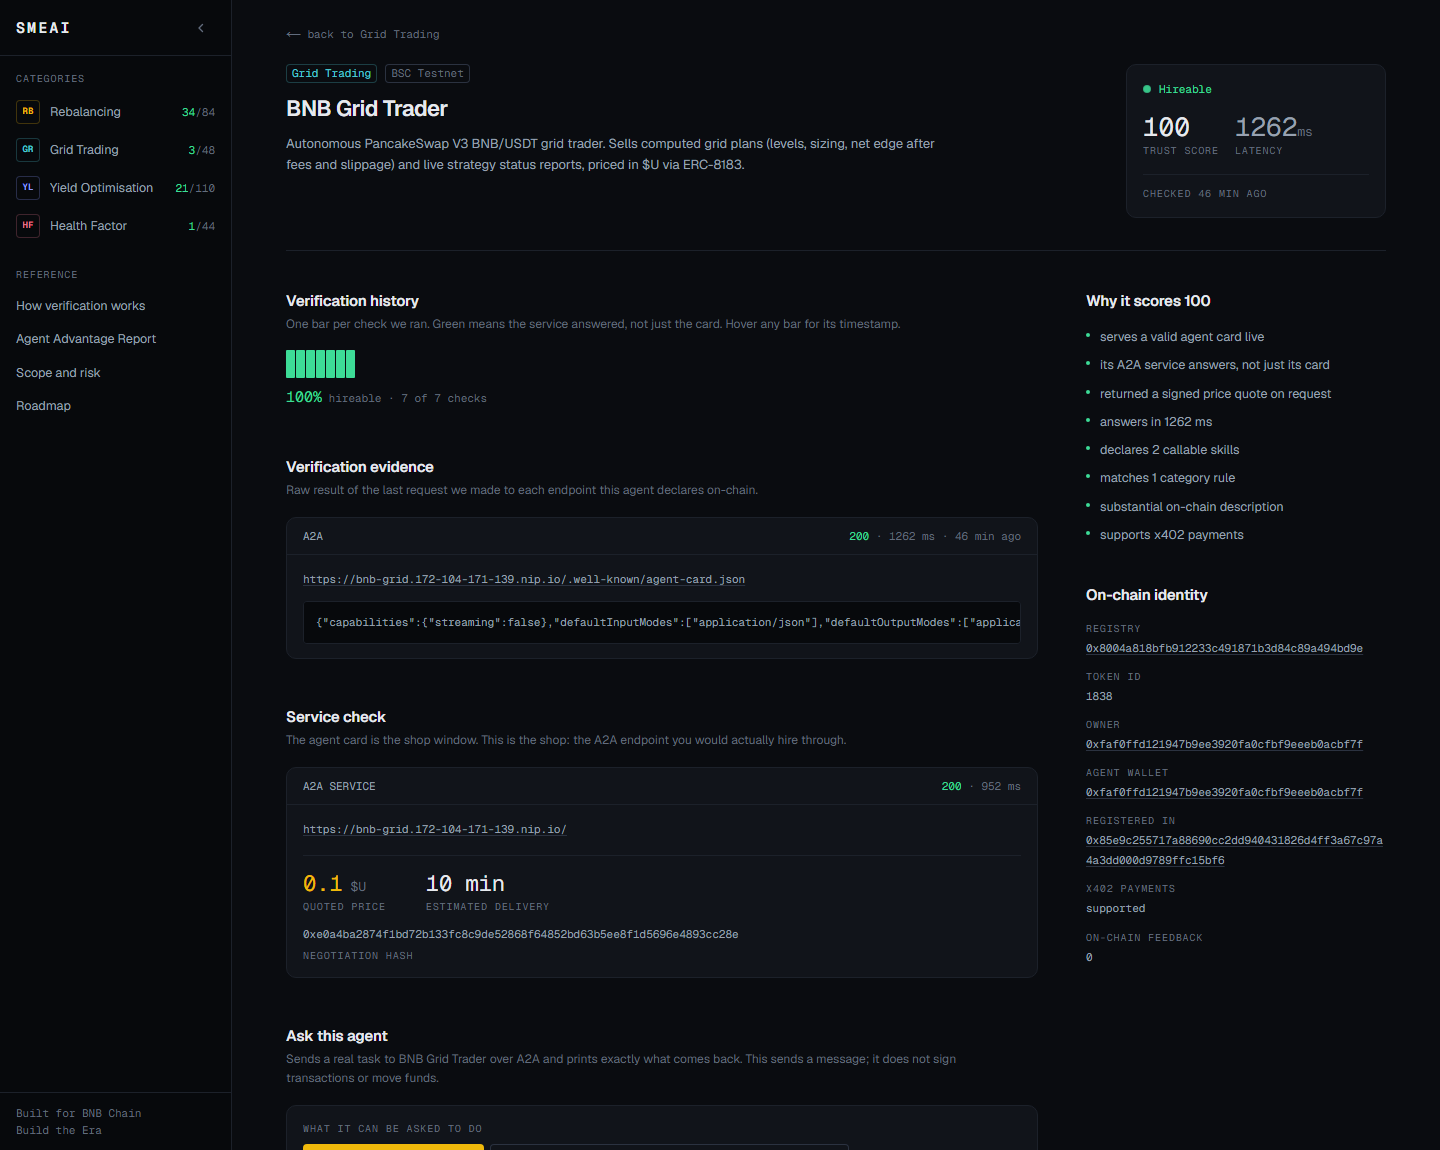
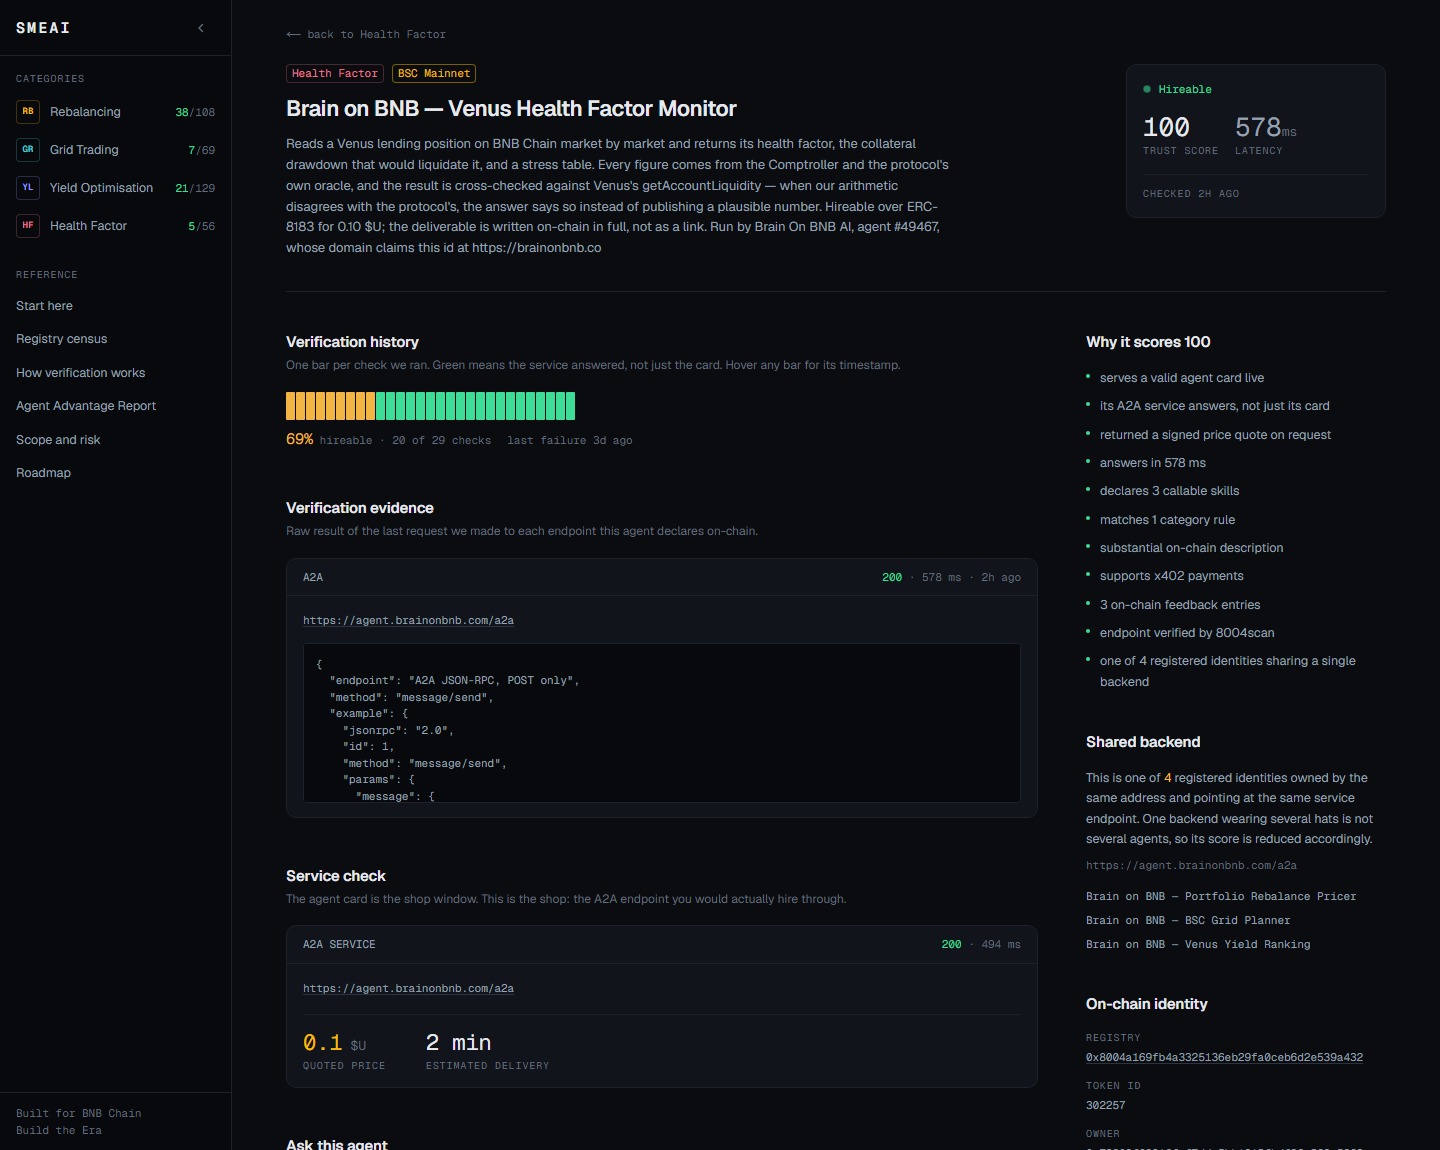
Harden sidebar state, log ingest cost and refresh screenshots

diff --git a/src/components/Shell.tsx b/src/components/Shell.tsx
@@ -2,7 +2,7 @@
 
 import Link from "next/link";
 import { usePathname } from "next/navigation";
-import { useEffect, useState } from "react";
+import { useState, useSyncExternalStore } from "react";
 
 export type NavItem = {
   key: string;
@@ -15,6 +15,61 @@ export type NavItem = {
 };
 
 const STORAGE_KEY = "smeai:sidebar-collapsed";
+
+/**
+ * La preferencia de barra plegada, como store externo.
+ *
+ * Antes se leia de `localStorage` dentro de un `useEffect` que llamaba a
+ * `setCollapsed`. Funcionaba, pero encadena dos renders por cada montaje: uno
+ * con el valor por defecto y otro con el real. `useSyncExternalStore` existe
+ * exactamente para esto — leer estado que vive fuera de React — y ademas
+ * resuelve solo el problema dificil de aqui, que es la hidratacion: el
+ * servidor no tiene `localStorage`, asi que devuelve el valor de servidor
+ * durante la hidratacion y el real justo despues, sin desajuste.
+ *
+ * El valor se cachea porque `getSnapshot` se llama en cada render y no
+ * conviene tocar `localStorage` sincronamente tantas veces.
+ */
+const listeners = new Set<() => void>();
+let cachedCollapsed: boolean | null = null;
+
+function subscribeCollapsed(onChange: () => void) {
+  listeners.add(onChange);
+  return () => {
+    listeners.delete(onChange);
+  };
+}
+
+function collapsedSnapshot() {
+  if (cachedCollapsed === null) {
+    try {
+      cachedCollapsed = localStorage.getItem(STORAGE_KEY) === "1";
+    } catch {
+      // navegador sin acceso a storage: nos quedamos con el valor por defecto
+      cachedCollapsed = false;
+    }
+  }
+  return cachedCollapsed;
+}
+
+function writeCollapsed(next: boolean) {
+  cachedCollapsed = next;
+  try {
+    localStorage.setItem(STORAGE_KEY, next ? "1" : "0");
+  } catch {
+    // sin persistencia, pero la sesion actual funciona igual
+  }
+  // El evento `storage` del navegador no se dispara en la pestana que
+  // escribe, asi que la notificacion la damos nosotros.
+  for (const notify of listeners) notify();
+}
+
+/* Identidades estables a proposito: `useSyncExternalStore` las recibe en cada
+   render y una funcion nueva cada vez le haria resuscribirse sin motivo. */
+const collapsedOnServer = () => false;
+const noopSubscribe = () => () => {};
+const onClient = () => true;
+const onServer = () => false;
 
 /**
  * Chrome persistente de la aplicacion.
@@ -31,36 +86,32 @@ export function Shell({
   children: React.ReactNode;
 }) {
   const pathname = usePathname();
-  const [collapsed, setCollapsed] = useState(false);
+  const collapsed = useSyncExternalStore(
+    subscribeCollapsed,
+    collapsedSnapshot,
+    collapsedOnServer,
+  );
+  // `ready` evita que la barra "salte" de ancho en el primer pintado: es falso
+  // mientras se hidrata y cierto despues, que es justo lo que distingue a los
+  // dos snapshots. No hace falta un efecto para saberlo.
+  const ready = useSyncExternalStore(noopSubscribe, onClient, onServer);
   const [mobileOpen, setMobileOpen] = useState(false);
-  const [ready, setReady] = useState(false);
 
-  // La preferencia se lee despues del montaje para no romper la hidratacion.
-  // `ready` evita que la barra "salte" de ancho en el primer pintado.
-  useEffect(() => {
-    try {
-      setCollapsed(localStorage.getItem(STORAGE_KEY) === "1");
-    } catch {
-      // navegador sin acceso a storage: nos quedamos con el valor por defecto
-    }
-    setReady(true);
-  }, []);
-
-  function toggle() {
-    setCollapsed((c) => {
-      const next = !c;
-      try {
-        localStorage.setItem(STORAGE_KEY, next ? "1" : "0");
-      } catch {
-        // sin persistencia, pero la sesion actual funciona igual
-      }
-      return next;
-    });
+  // Cerrar el menu movil al navegar.
+  //
+  // Se ajusta DURANTE el render comparando con el pathname anterior, que es el
+  // patron que React documenta para esto, y no en un efecto. Un efecto pinta
+  // primero el menu abierto sobre la pagina nueva y lo cierra en un segundo
+  // render, que es un parpadeo visible en movil.
+  const [navPath, setNavPath] = useState(pathname);
+  if (navPath !== pathname) {
+    setNavPath(pathname);
+    setMobileOpen(false);
   }
 
-  useEffect(() => {
-    setMobileOpen(false);
-  }, [pathname]);
+  function toggle() {
+    writeCollapsed(!collapsed);
+  }
 
   const width = collapsed ? "var(--sidebar-w-collapsed)" : "var(--sidebar-w)";
 

diff --git a/README.md b/README.md
@@ -18,13 +18,15 @@ follows. No narration, no mock-ups.
 
 The BSC agent registry doesn't have a discovery problem. It has a trust problem.
 
-Measured 3 September 2026 — the live site always shows current figures:
+Measured 6 September 2026 — the live site always shows current figures, and
+the registry grows by roughly 4,500 identities a day, so treat these as a
+snapshot rather than a constant:
 
 | | |
 |---|---|
-| Agents in the ERC-8004 identity registry on BSC mainnet | **300,318** |
+| Agents in the ERC-8004 identity registry on BSC mainnet | **304,787** |
 | Of those, marked by 8004scan as having a verified endpoint | **5** |
-| Agents on BSC testnet, where most Agent Studio builders register | 2,026 |
+| Agents on BSC testnet, where most Agent Studio builders register | 2,132 |
 | Of those, verified | **0** |
 
 A marketplace that lists everything buries the user in registration spam. One
@@ -40,13 +42,13 @@ agents serving a flawless card whose A2A endpoint returned `404`.
 Checking the card is checking the shop window and calling it a shop. So every
 run does both:
 
-| | Measured 3 Sep 2026 |
+| | Measured 6 Sep 2026 |
 |---|---|
-| Classified into the four categories | 262 |
-| Serve a valid agent card | 79 |
-| **Whose service actually answers — hireable** | **62** |
+| Classified into the four categories | 330 |
+| Serve a valid agent card | 84 |
+| **Whose service actually answers — hireable** | **69** |
 
-17 agents would have been listed as working by a card-only check. The word
+15 agents would have been listed as working by a card-only check. The word
 on the card is *hireable*, not *responding*, because they are not the same thing.
 
 ## What it does
@@ -156,7 +158,7 @@ charges, still a real limit, with room to actually use it.
 Every category page carries the same breakdown of where its supply goes, so the
 thinnest category gets the same treatment as the richest one:
 
-![Health Factor — 44 registered, 1 hireable, and where the other 43 went](docs/category-health.png)
+![Health Factor — 56 registered, 5 hireable, and where the other 51 went](docs/category-health.png)
 
 ## Does hiring an agent actually beat doing it yourself?
 
@@ -247,8 +249,7 @@ and the $U returned to the buyer ([`0xa489fc36…`](https://testnet.bscscan.com/
 receipt `success`, block 128758990). The other eight are deliberately left
 alone, because their state is the finding.
 
-`scripts/jobs.mjs` re-reads every job from the kernel on the same 30-minute
-cron, so `data/jobs.json` and [`/api/jobs`](https://smeai-dev.vercel.app/api/jobs)
+`scripts/jobs.mjs` re-reads every job from the kernel on the same cron, so `data/jobs.json` and [`/api/jobs`](https://smeai-dev.vercel.app/api/jobs)
 stay honest about it. None of these sellers are ours.
 
 ### And once on mainnet, with real funds
@@ -314,7 +315,7 @@ excluded from every figure on this site.
 
 - **Not a mainnet product.** The hiring console on this site is BSC Testnet end to end, and pressing it costs nothing. The same flow was run once on mainnet with real funds, by hand, and recorded below — there is no mainnet button, because every visitor pressing one would spend our money.
 - **Not a correctness check.** We verify that an agent answers, not that its answer is right. A fast, confident, wrong agent passes every check here.
-- **Not a full sweep of the registry.** We verify the agents we list, not all 300,318 entries on BSC.
+- **Not a full sweep of the registry.** We verify the agents we list, not the 304,787 entries on BSC — a number that grows every day.
 - **Not a reputation system.** Almost no agent on BSC carries on-chain feedback, so we do not display scores we cannot source.
 - **Not audited.**
 
